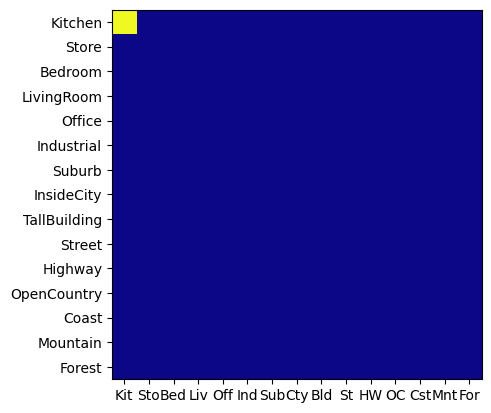
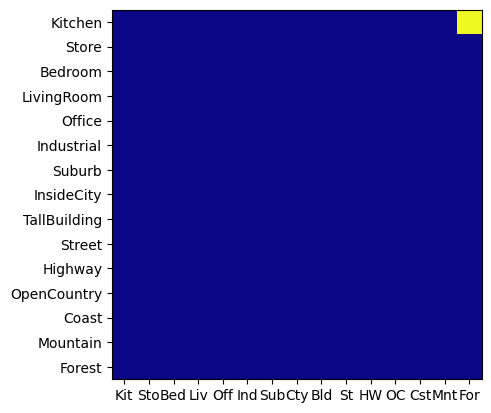
nearest neighbors

Changed region(s): [[0.9165, 0.0291, 1.0, 0.0872], [0.2138, 0.0291, 0.3055, 0.0872]]

diff --git a/code/student.py b/code/student.py
@@ -299,18 +299,21 @@ def nearest_neighbor_classify(train_image_feats, train_labels, test_image_feats,
     # 2) Determine the labels of those k features
     # 3) Pick the most common label from the k
     # 4) Store that label in a list
-    close_distances = []
-    close_indices = []
     close_labels = []
     most_common_label = []
+    #print(test_image_feats.shape)
+    #print(train_image_feats.shape)
     for i in range(test_image_feats.shape[0]):
-        distance = sci.spatial.distance.cdist(test_image_feats[i].reshape(1, -1), train_image_feats.reshape(train_image_feats.shape[0], -1), 'euclidean')[0]
+        test_distance = test_image_feats[i].reshape(-1, 16*16)
+        train_distance = train_image_feats.reshape(train_image_feats.shape[1], -1)
+        #print(test_distance.shape)
+        #print(train_distance.shape)
+        distance = sci.spatial.distance.cdist(test_distance, train_distance, 'euclidean')[0]
         indices = np.argsort(distance)[:k]
-        close_indices.append(indices)
-        close_distances.append(distance[indices])
         train_labels_array = np.array(train_labels)
         close_labels.append(train_labels_array[indices])
-        most_common_label.append(sci.stats.mode(close_labels, keepdims = True)[0][0])
+        most_common = sci.stats.mode(close_labels, keepdims = True)[0][0]
+        most_common_label.append(most_common)
     
     #array = np.array(most_common_label)
     #print(array.shape)
